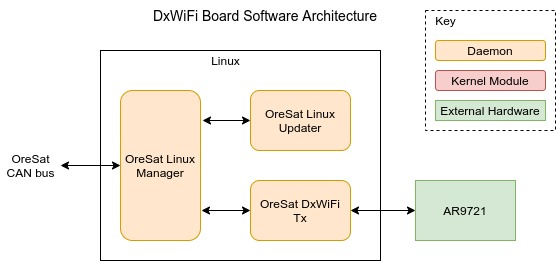
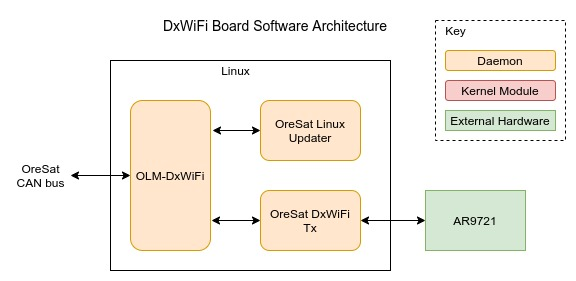
started to fillout cfc board page, fix dxwifi arch diagram

Changed region(s): [[0.0, 0.1839, 0.9478, 1.0], [0.7644, 0.0307, 1.0, 0.5211], [0.2752, 0.0307, 0.6727, 0.1226]]

diff --git a/docs/boards/cfc.rst b/docs/boards/cfc.rst
@@ -2,3 +2,46 @@ CFC (Cirrus Flux Camera)
 ========================
 
 TBD
+
+.. image:: ../diagrams/cfc_architecture.jpg
+
+OLM-CFC
+----------
+
+.. note::
+
+    Like all OreSat Linux boards, the CFC will have version of OLM on it.
+    See the *General Design/software* for a quick overview or the
+    `oresat-linux-manager`_ repo for more info.
+
+OreSat Linux Updater
+--------------------
+
+.. note::
+
+    Like all OreSat Linux boards, the CFC will have OreSat Linux Updater on
+    it. See the *General Design/software* for a quick overview or the
+
+OreSat CFC
+----------
+
+TBD
+
+Repos: `oresat-cfc-software`_
+
+PRUcam
+------
+
+A kernel module for interfacing to camera with with the PRUs on a Octavo A8.
+
+Repo: `oresat-linux-prucam`_ 
+
+CFC Camera
+----------
+
+TBD
+
+.. _oresat-linux-manager: https://github.com/oresat/oresat-linux-manager
+.. _oresat-linux-updater: https://github.com/oresat/oresat-linux-updater
+.. _oresat-cfc-software: https://github.com/oresat/oresat-cfc-software
+.. _oresat-linux-prucam: https://github.com/oresat/oresat-linux-prucam
